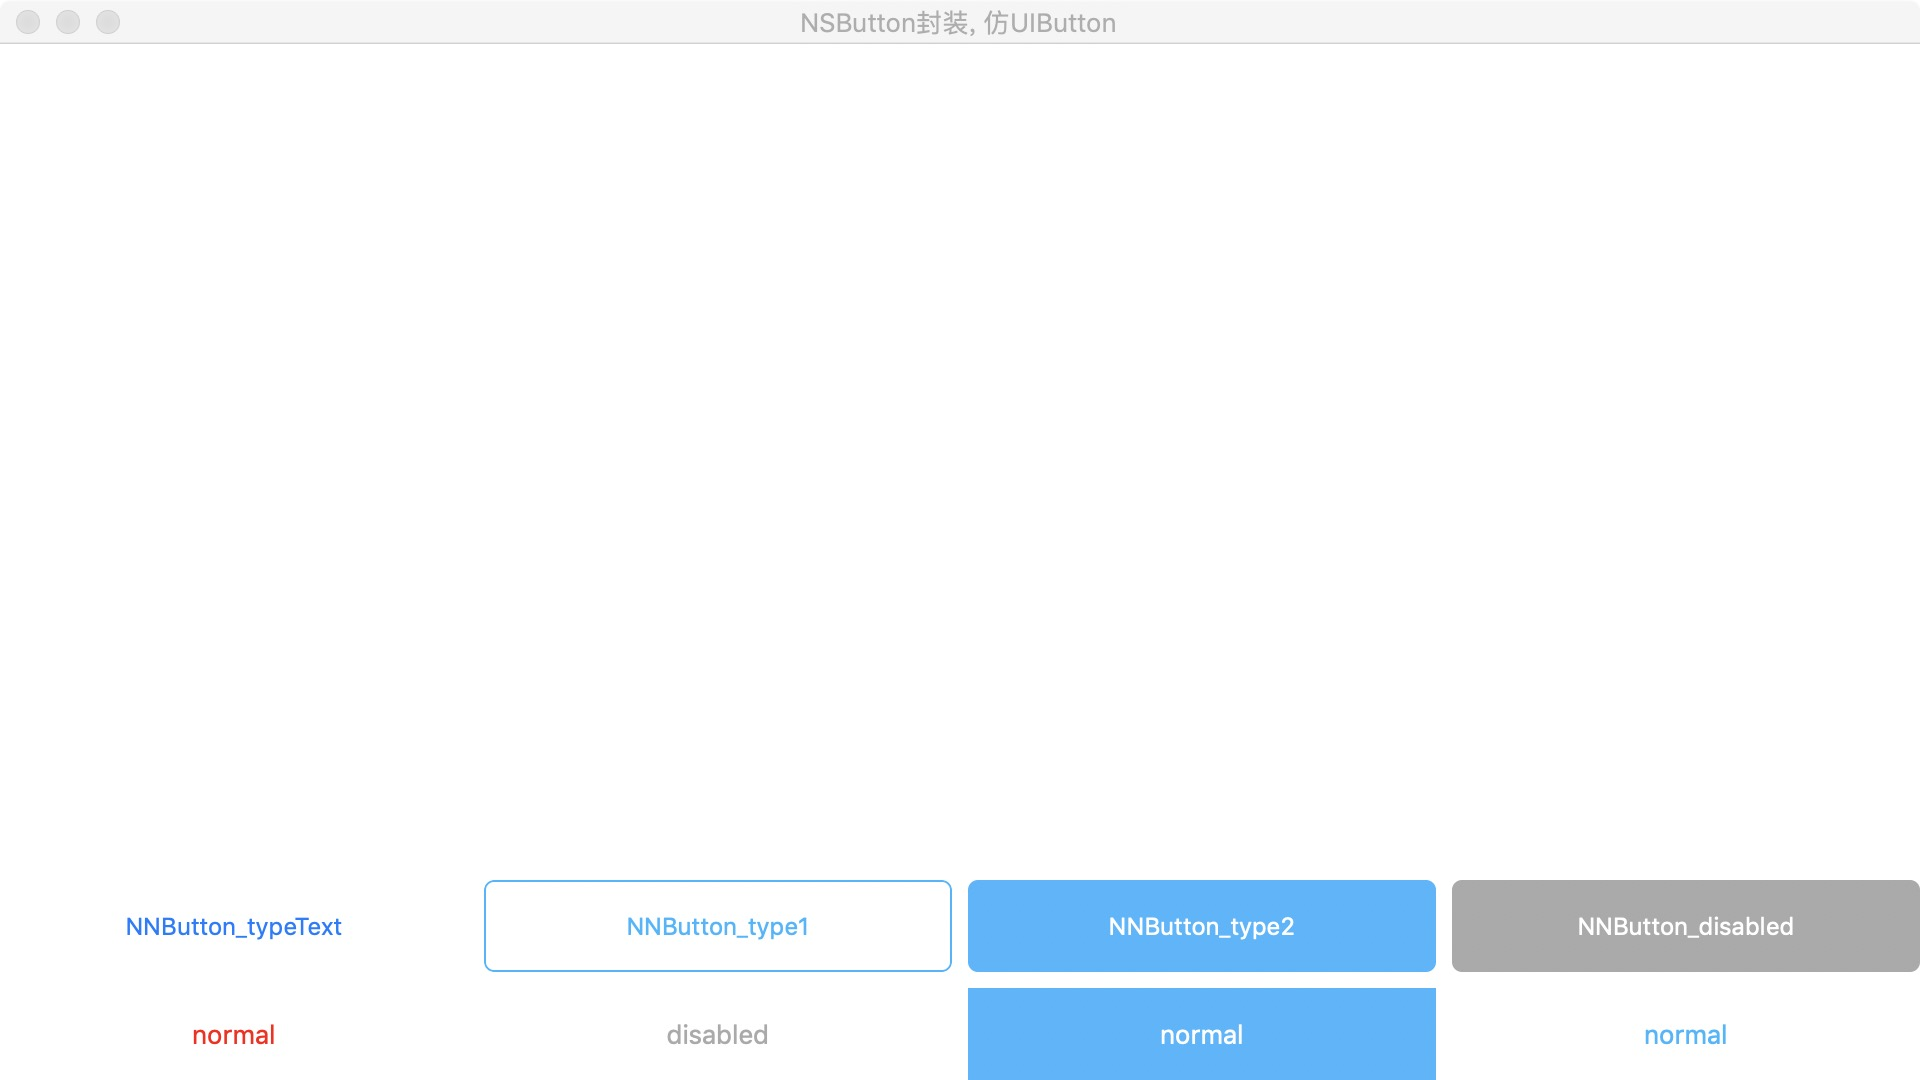
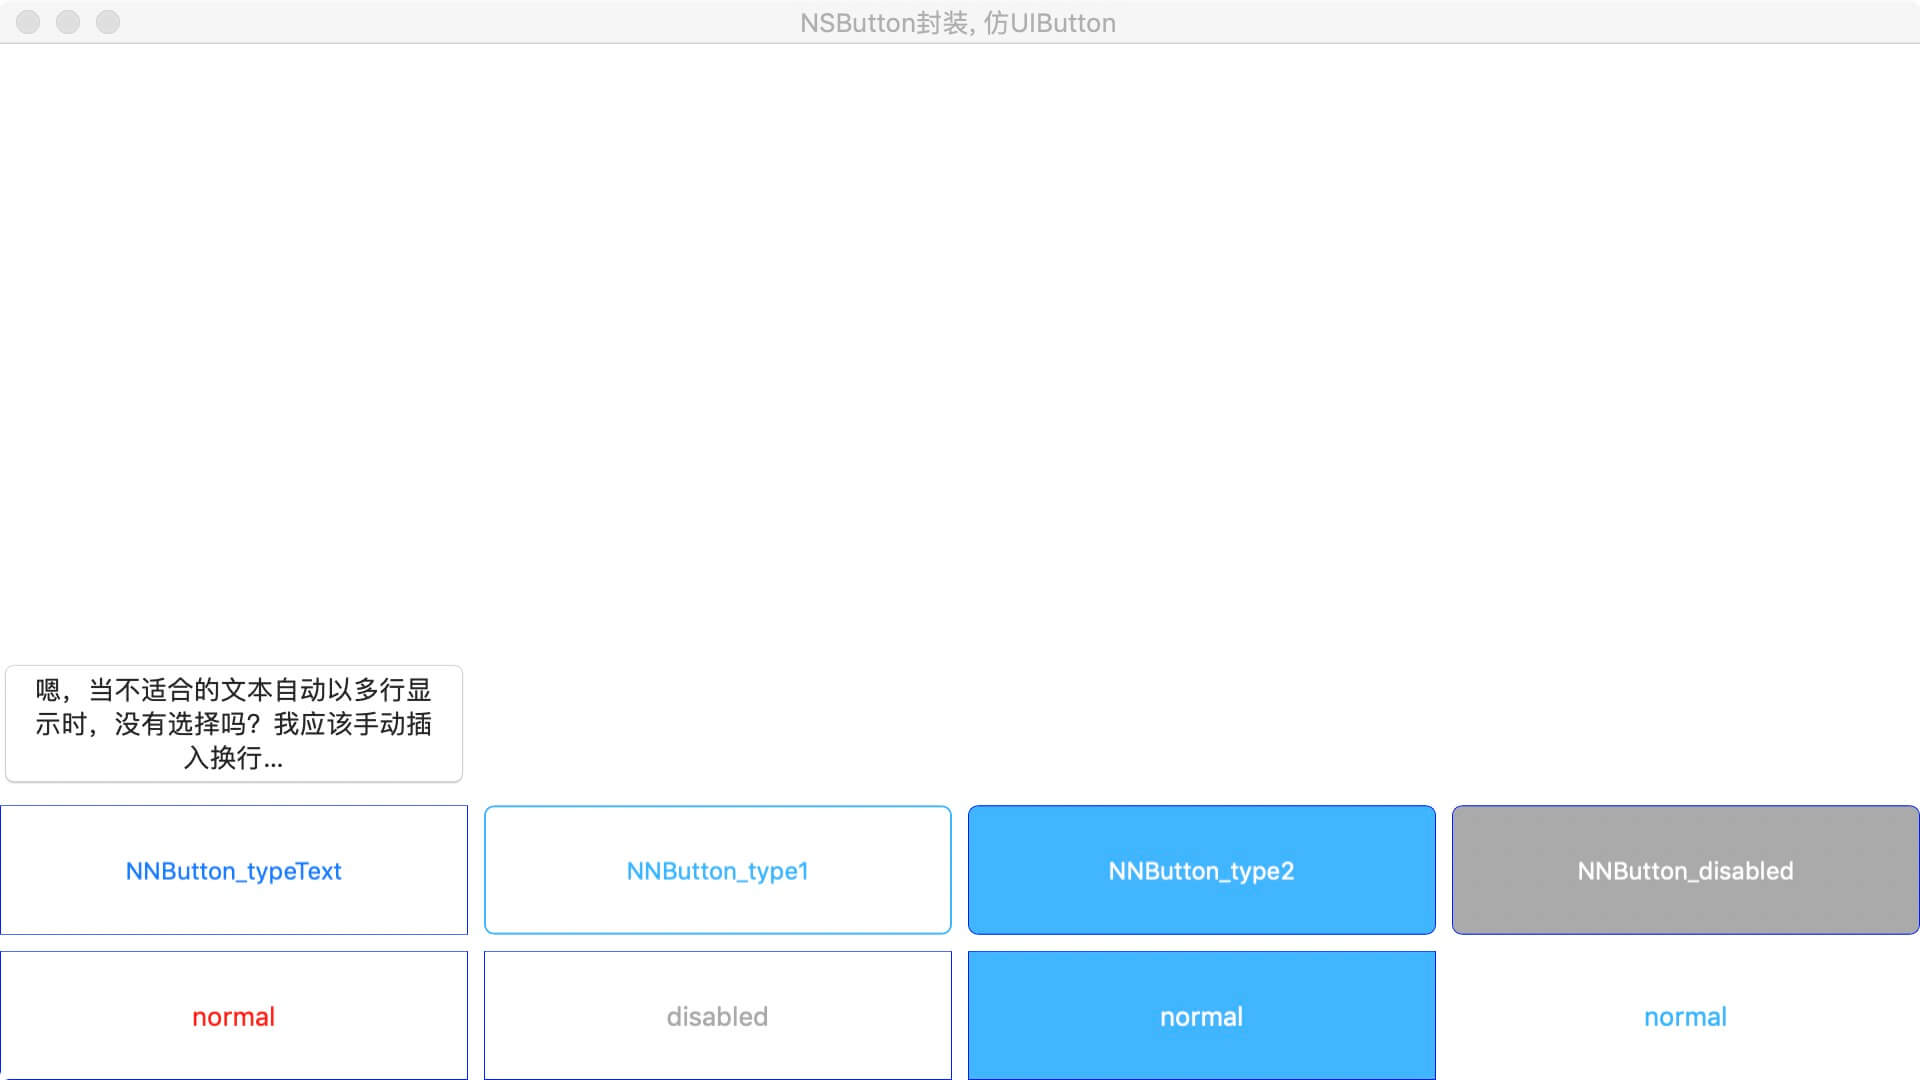
UPDATE

diff --git a/Example/NNButton/ViewController.swift b/Example/NNButton/ViewController.swift
@@ -177,6 +177,14 @@ class ViewController: NSViewController {
         return view
     }()
     
+    lazy var btnNine: NSButton = {
+        let view = NSButton(title: "\n嗯，当不适合的文本自动以多行显示时，没有选择吗？我应该手动插入换行…\n", target: self, action: #selector(handleActionBtn(_:)))
+        view.bezelStyle = .regularSquare
+        view.lineBreakMode = .byCharWrapping
+
+        return view
+    }()
+    
     @objc func handleActionBtn(_ sender: NNButton) {
 //        sender.selected = !sender.selected
 //        DDLog("\(sender)_\(sender.selected)_\(sender.isHighlighted)")
@@ -223,11 +231,12 @@ class ViewController: NSViewController {
         btnSeven.layer?.cornerRadius = 5
         btnEight.layer?.cornerRadius = 5
 
-        itemList = [btnOne, btnTwo, btnThree, btnFour, btnFive, btnSix, btnSeven, btnEight]
-        
-        let rect = CGRectMake(0, 0, view.frame.width, 100)
+        itemList = [btnOne, btnTwo, btnThree, btnFour, btnFive, btnSix, btnSeven, btnEight, btnNine]
+        let rowCount: Int = itemList.count%4 == 0 ? itemList.count/4 : itemList.count/4 + 1
+        let rect = CGRectMake(0, 0, view.frame.width, CGFloat(rowCount*70))
         setupConstraint(rect)
         
+        view.getViewLayer()
         print(view.subviews)
     }
 

diff --git a/Example/NNButton/AppDelegate.swift b/Example/NNButton/AppDelegate.swift
@@ -32,6 +32,7 @@ class AppDelegate: NSObject, NSApplicationDelegate {
         return window
     }()
 
+    // MARK: -life cycle
     func applicationDidFinishLaunching(_ aNotification: Notification) {
         // Insert code here to initialize your application
         window.makeKeyAndOrderFront(nil)
